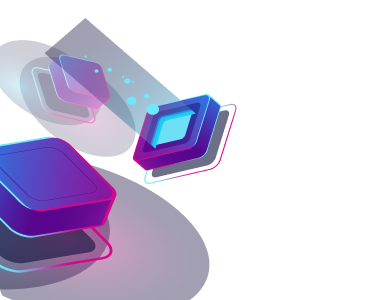
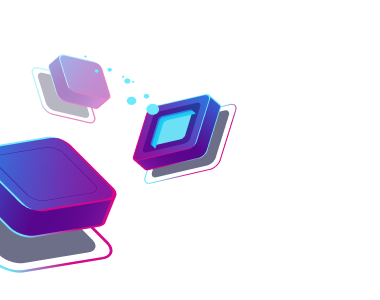
fix opacity deco, position img, change img

Changed region(s): [[0.0, 0.06, 0.55, 1.0]]

diff --git a/assets/css/style.css b/assets/css/style.css
@@ -136,6 +136,7 @@
   bottom: -381px;
   left: calc(50% - 1180px);
   z-index: -1;
+  opacity: 0.5;
 }
 .cl-contact:after {
   position: absolute;
@@ -147,6 +148,7 @@
   top: -402px;
   right: calc(50% - 1146px);
   z-index: -1;
+  opacity: 0.5;
 }
 .cl-contact > * {
   position: relative;
@@ -3161,7 +3163,7 @@ main {
 }
 .cl-wip-program-page .cl-banner .cl-banner-image {
   position: absolute;
-  bottom: -60px;
+  bottom: 0;
   right: calc(50% - 947px);
 }
 .cl-wip-program-page .cl-banner .cl-banner-body {

diff --git a/assets/css/style.scss b/assets/css/style.scss
@@ -137,6 +137,7 @@ $cl_text_title: #0E0E2C;
     bottom: -381px;
     left: calc(50% - 1180px);
     z-index: -1;
+    opacity: 0.5;
   }
   &:after{
     position: absolute;
@@ -148,6 +149,7 @@ $cl_text_title: #0E0E2C;
     top: -402px;
     right: calc(50% - 1146px);
     z-index: -1;
+    opacity: 0.5;
   }
   >*{
     position: relative;

diff --git a/assets/css/pages/_wip-program.scss b/assets/css/pages/_wip-program.scss
@@ -9,7 +9,7 @@
     overflow: hidden;
     .cl-banner-image {
       position: absolute;
-      bottom: -60px;
+      bottom: 0;
       right: calc(50% - 947px);
     }
     .cl-banner-body {
